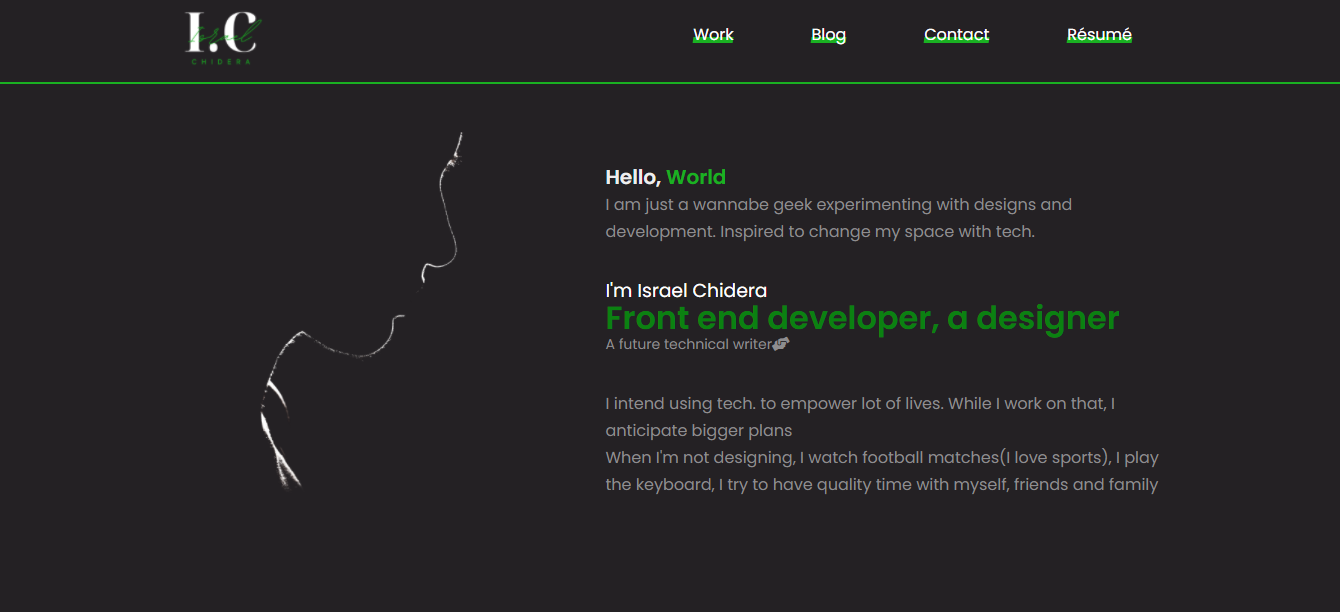
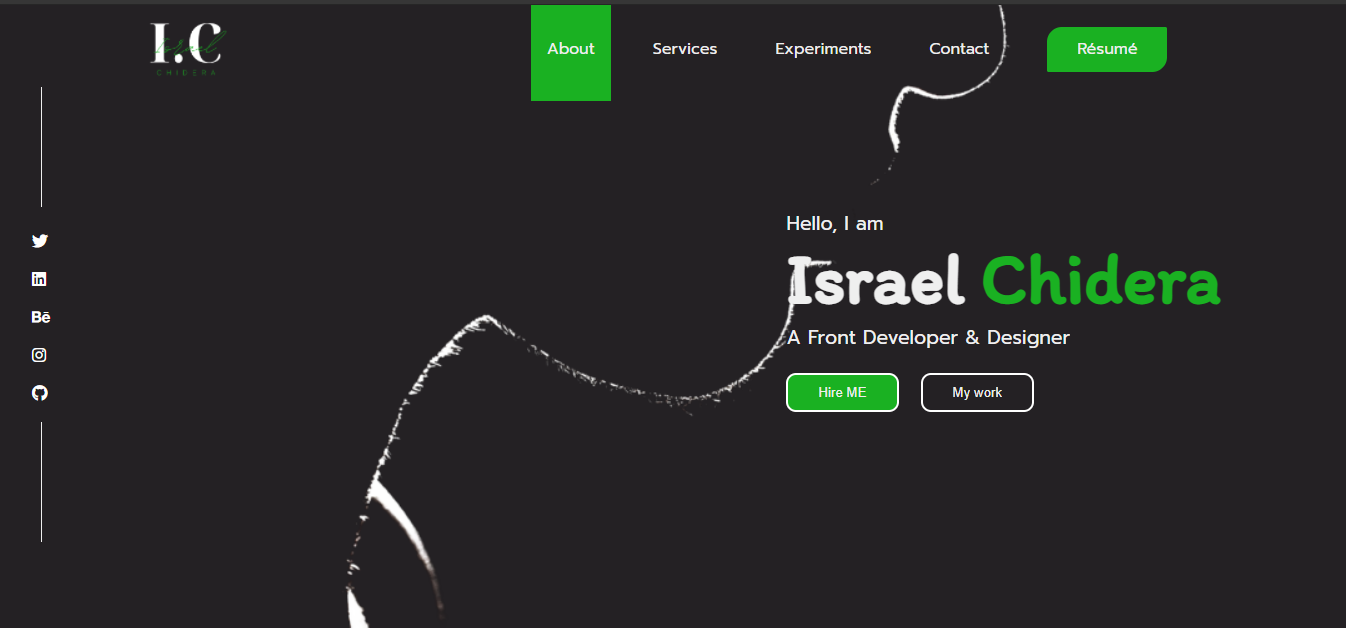
Added more projects

diff --git a/index.html b/index.html
@@ -280,27 +280,27 @@
                         <button>
                             React
                         </button>
+                        <button>
+                            API
+                        </button>
                     </div>
                 </div>
         
                 <div class="grid4 grid">
-                    <a href="https://mystifying-brown-61fcfe.netlify.app/">
-                        <img src="./assets/work4.png" alt="work4"/>
+                    <a href="https://github.com/IsraelChidera/movie-database">
+                        <img src="./assets/Moviedb.png" alt="work4"/>
                     </a>
                     <h3>
-                        <a href="https://mystifying-brown-61fcfe.netlify.app/">
-                            Lagos Pilot Website
+                        <a href="https://github.com/IsraelChidera/movie-database">
+                            Movie database
                         </a>
                     </h3>
                     <div>
                         <button>
-                            HTML5
+                            API
                         </button>
                         <button>
-                            CSS3
-                        </button>
-                        <button>
-                            JS
+                            React JS
                         </button>
                     </div>
                 </div>
@@ -329,11 +329,29 @@
                         </button>
                     </div>
                 </div>
+                <div class="grid4 grid">
+                    <a href="https://www.behance.net/gallery/119245405/BrzTech">
+                        <img src="./assets/brztech.png" alt="work5"/>
+                    </a>
+                    <h3>
+                        <a 
+                            href="https://www.behance.net/gallery/119245405/BrzTech"
+                        >
+                            BrzTech Landing Page UI Design
+                            
+                        </a>
+                    </h3>
+                    <div>
+                        <button>
+                            Figma
+                        </button>
+                    </div>
+                </div>
             </div>
         </div>
     
         <section>
-            <p class="special-services">Contact us</p>
+            <p class="special-services">Contact . . .</p>
             <div id="contact">
                 <div class="contact-details">
                     <p>Let's make something new, different and more meaningful. 

diff --git a/style.css b/style.css
@@ -196,7 +196,7 @@ nav ul li .cv:hover {
 
 .header-intro h2 {
   font-size: 4.5rem;
-  font-family: 'Itim', cursive;
+  font-family: 'Poppins', sans-serif;
   margin-bottom: 1.3rem;
 }
 
@@ -816,7 +816,7 @@ th {
 
     .header-intro h2 {
         font-size: 2.5rem;
-        font-family: 'Itim', cursive;
+        font-family: 'Poppins', sans-serif;
         margin-bottom: 1.3rem;
     }
 
@@ -1132,7 +1132,7 @@ th {
 
     .header-intro h2 {
         font-size: 2.5rem;
-        font-family: 'Itim', cursive;
+        font-family: 'Poppins', sans-serif;
         margin-bottom: 1.3rem;
     }
 
